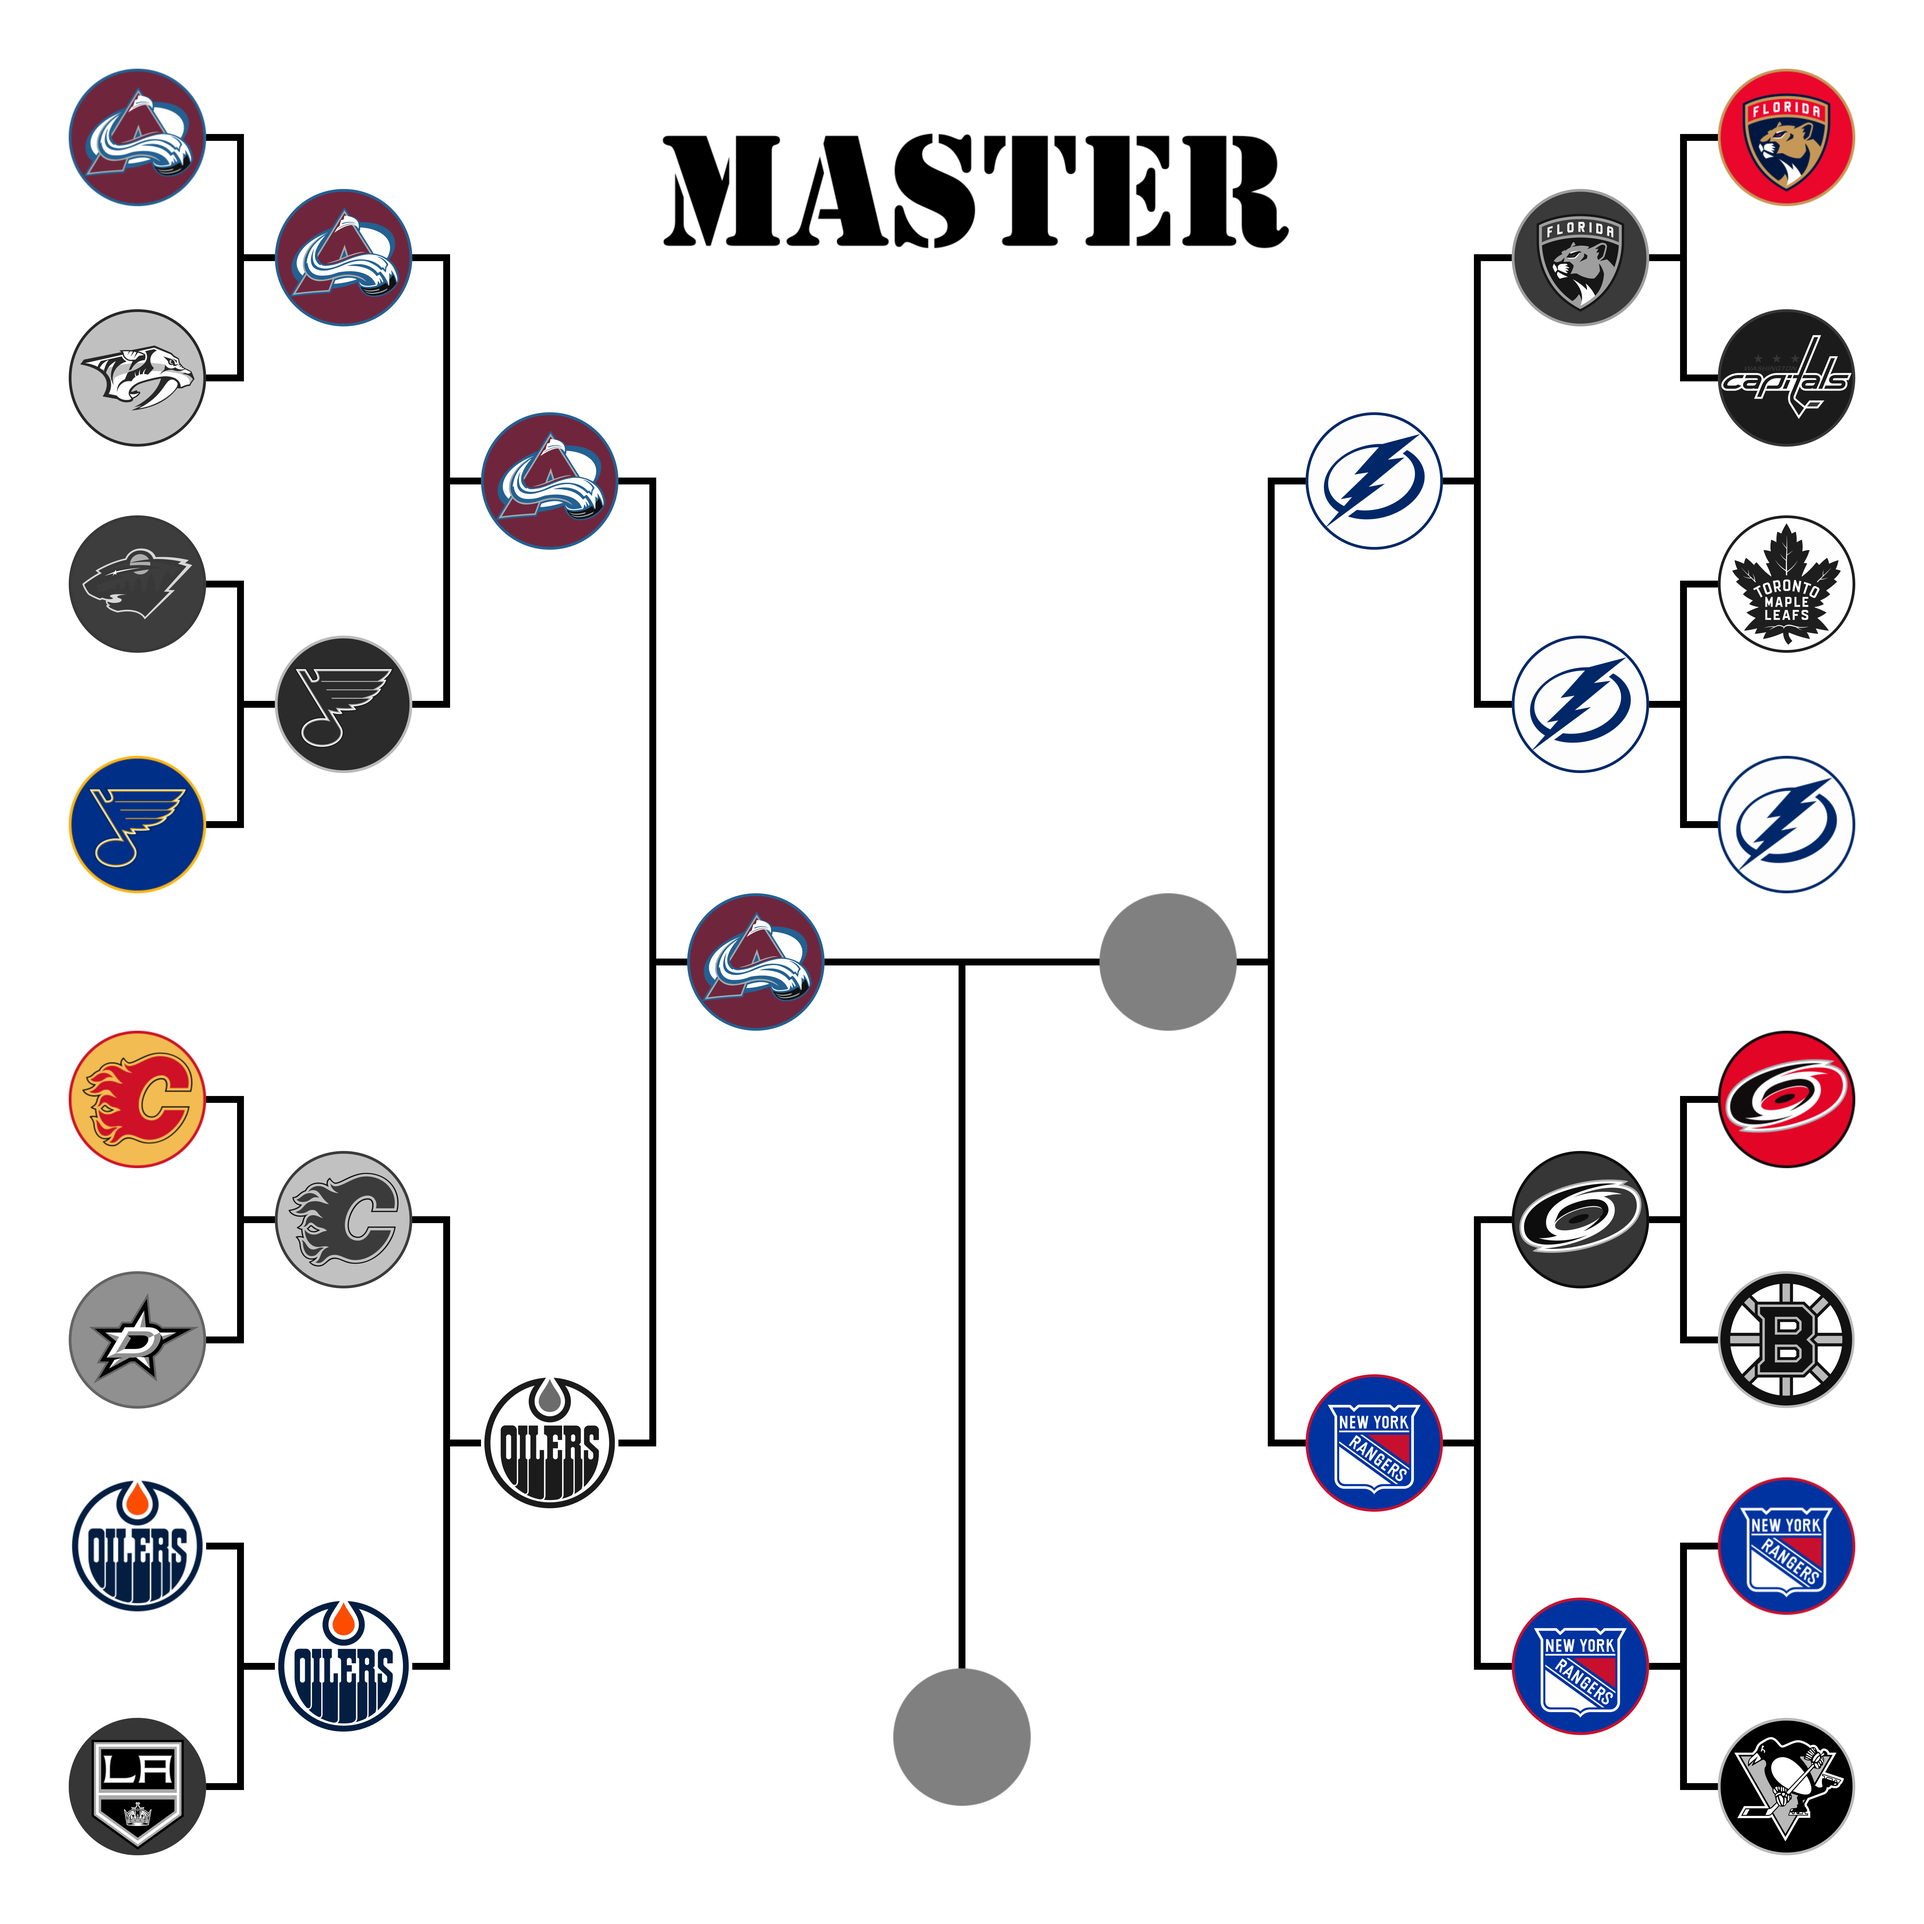
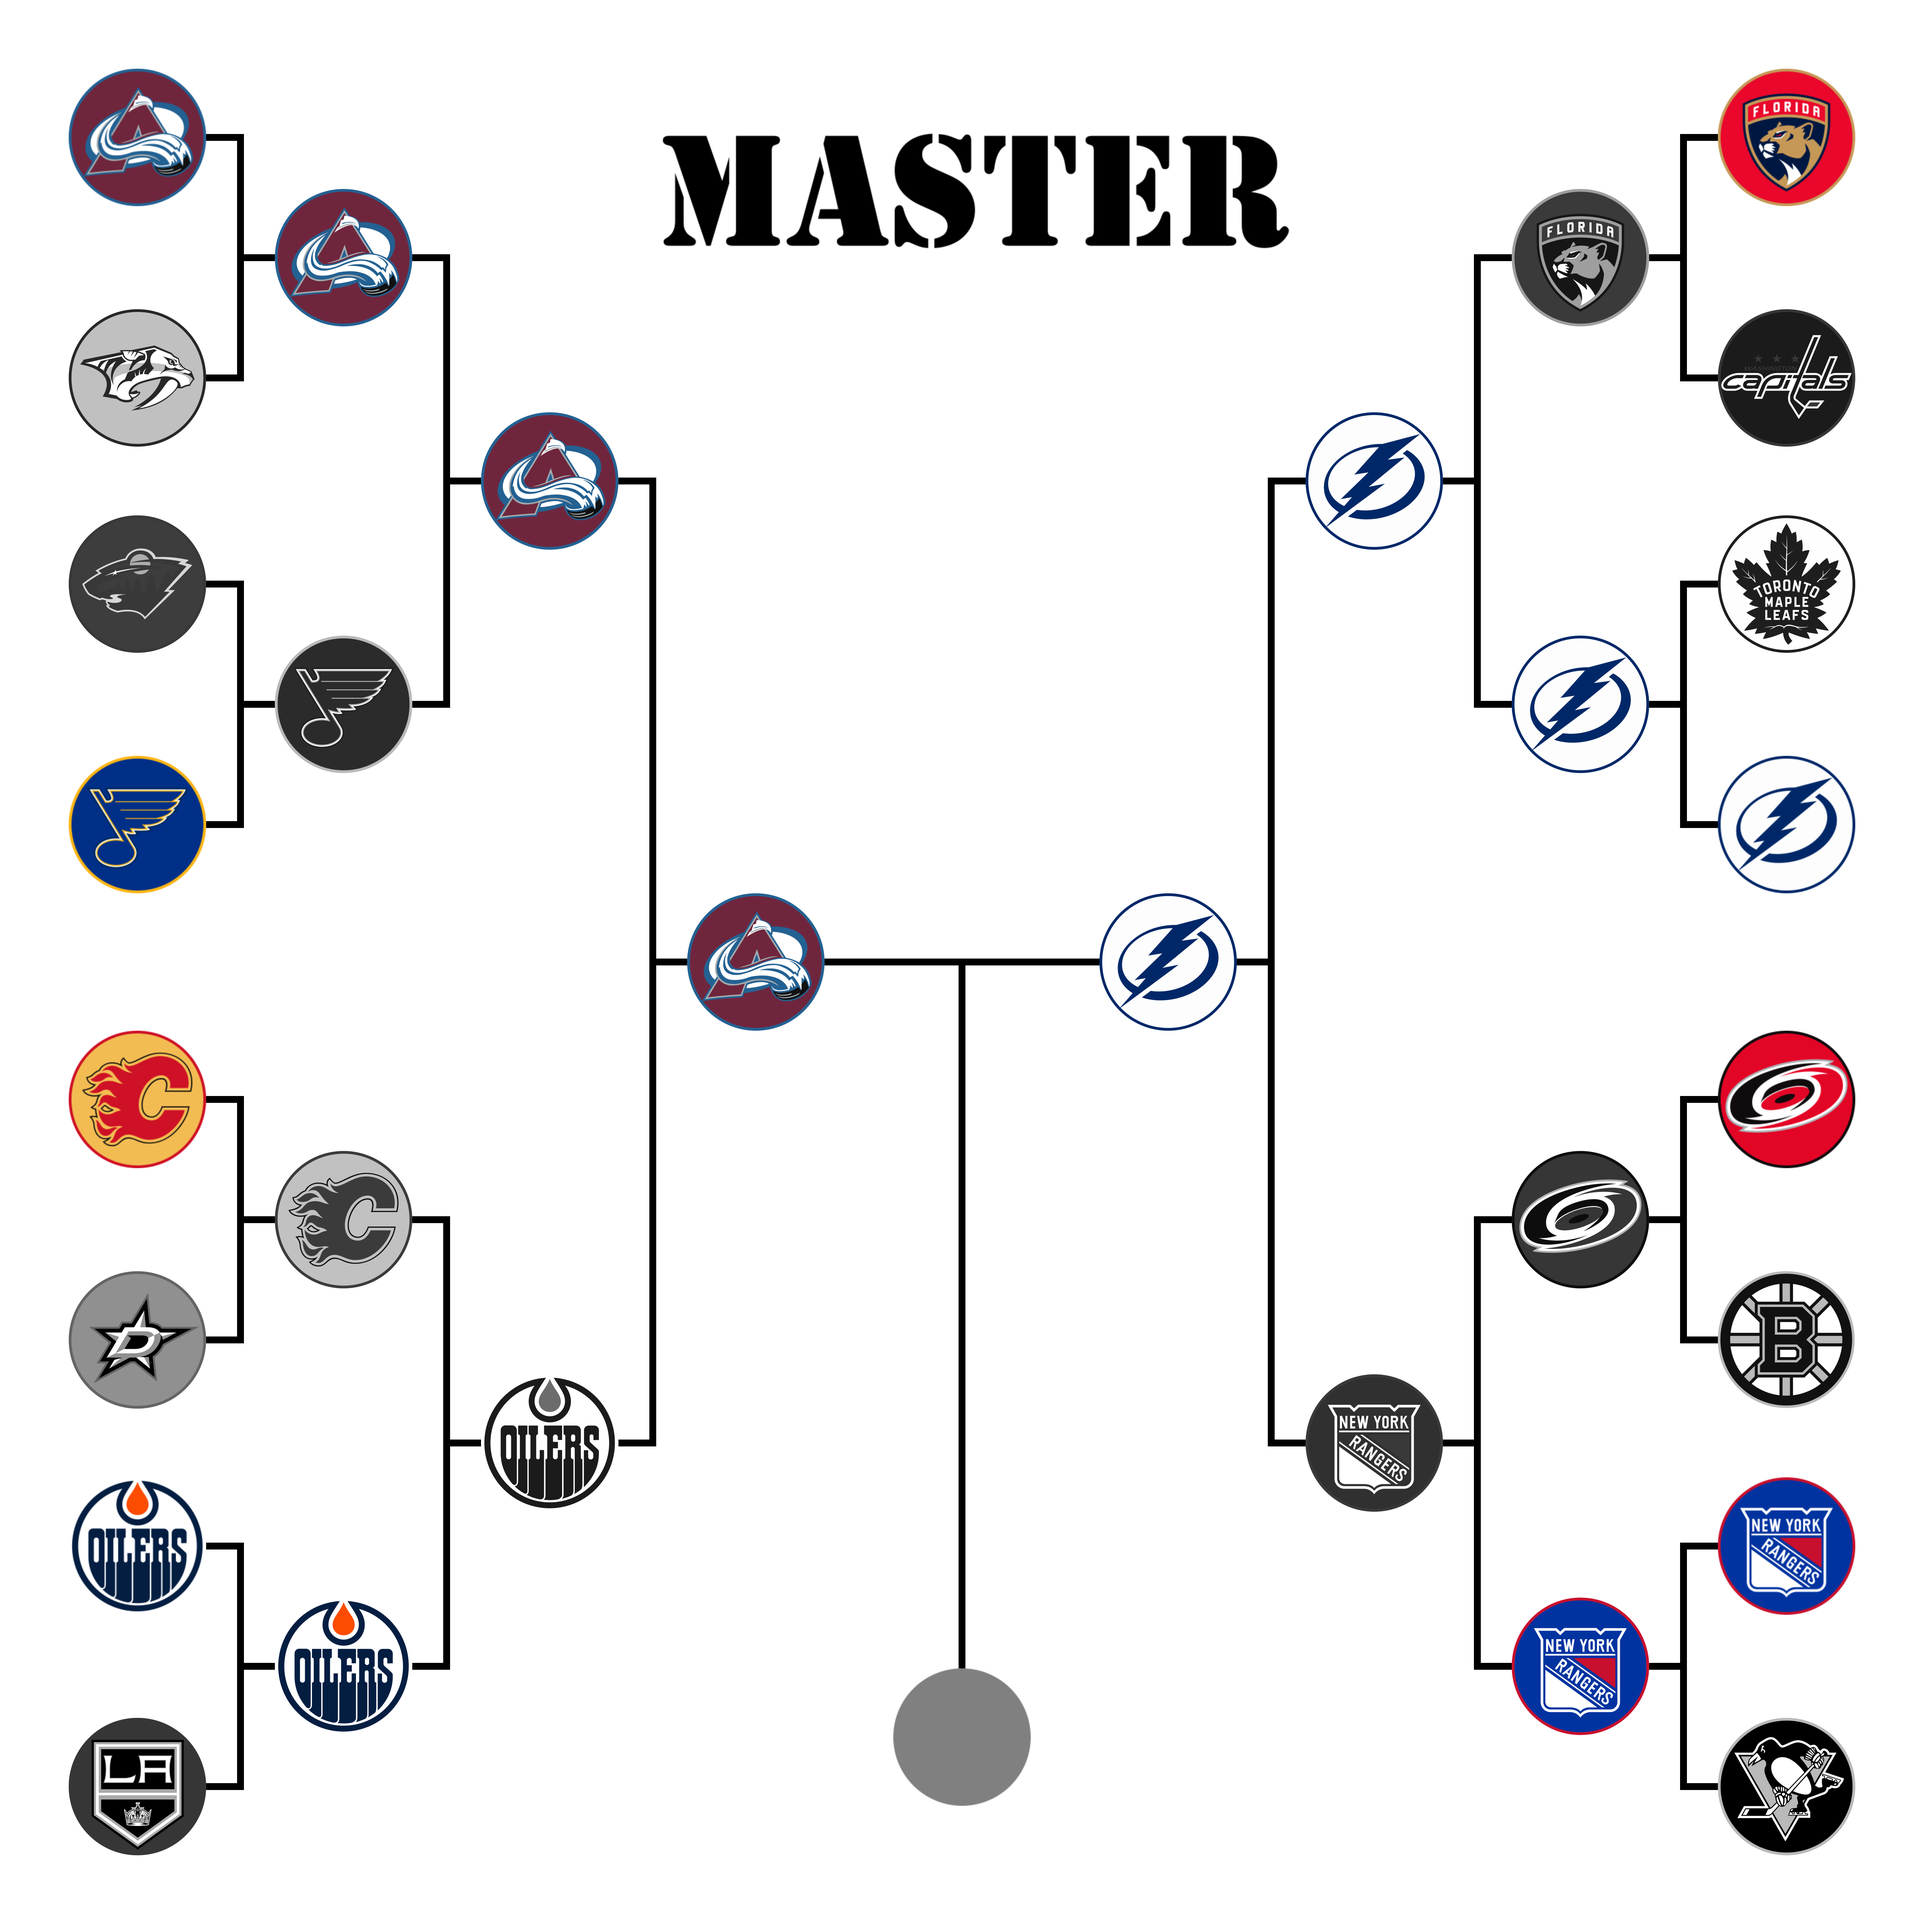
Updated Scores

Changed region(s): [[0.5625, 0.4375, 0.6562, 0.5625], [0.6562, 0.7188, 0.75, 0.7812]]

diff --git a/OverallFunction.m b/OverallFunction.m
@@ -5,7 +5,7 @@ clear all; close all; clc;
 FLAGS.Perform_Complete_Initialization = 0;
 FLAGS.Series_Teams_Initialization = 1;
 FLAGS.Update_Brackets_and_Points = 1;
-FLAGS.Update_Graphics = 0;
+FLAGS.Update_Graphics = 1;
 FLAGS.Update_Markdown = 1;
 FLAGS.Run_Git_Commands = 0; %%%Not implemented
 

diff --git a/UpdateFunctions/Scores.m b/UpdateFunctions/Scores.m
@@ -68,8 +68,8 @@ SCORES(:,:,13) = ...
 
 %% Series 14 /
 SCORES(:,:,14) = ...
-   [6 3 2 1 1 NaN NaN   % Rangers
-    2 2 3 4 3 NaN NaN]; % Lightning
+   [6 3 2 1 1 1 NaN   % Rangers
+    2 2 3 4 3 2 NaN]; % Lightning
 
 %% Series 15 /
 SCORES(:,:,15) = ...

diff --git a/index.md b/index.md
@@ -66,20 +66,20 @@ Thank you everyone who submitted a bracket. I enjoyed making this page and I hop
     <td>2</td>
     <td>1</td>
     <td>1</td>
-    <td> </td>
+    <td>1</td>
     <td> </td>
     <td>2</td>
   </tr>
   <tr>
-    <td>Lightning</td>
+    <td style="background-color: green">Lightning</td>
     <td>2</td>
     <td>2</td>
     <td style="background-color: green">3</td>
     <td style="background-color: green">4</td>
     <td style="background-color: green">3</td>
+    <td style="background-color: green">2</td>
     <td> </td>
-    <td> </td>
-    <td>3</td>
+    <td>4</td>
   </tr>
 </table>
 
@@ -99,7 +99,7 @@ Thank you everyone who submitted a bracket. I enjoyed making this page and I hop
     <th>Total Wins</th>
   </tr>
   <tr>
-    <td></td>
+    <td>Avalanche</td>
     <td> </td>
     <td> </td>
     <td> </td>
@@ -107,10 +107,10 @@ Thank you everyone who submitted a bracket. I enjoyed making this page and I hop
     <td> </td>
     <td> </td>
     <td> </td>
-    <td></td>
+    <td>0</td>
   </tr>
   <tr>
-    <td></td>
+    <td>Lightning</td>
     <td> </td>
     <td> </td>
     <td> </td>
@@ -118,7 +118,7 @@ Thank you everyone who submitted a bracket. I enjoyed making this page and I hop
     <td> </td>
     <td> </td>
     <td> </td>
-    <td></td>
+    <td>0</td>
   </tr>
 </table>
 
@@ -603,7 +603,7 @@ TPP: Total Points Possible
   </tr>
   <tr>
     <td>Corey</td>
-    <td>90</td>
+    <td>140</td>
     <td>240</td>
   </tr>
   <tr>
@@ -697,6 +697,11 @@ TPP: Total Points Possible
     <td>245</td>
   </tr>
   <tr>
+    <td>Corey</td>
+    <td>140</td>
+    <td>240</td>
+  </tr>
+  <tr>
     <td>Megan</td>
     <td>140</td>
     <td>240</td>
@@ -740,11 +745,6 @@ TPP: Total Points Possible
     <td>Allison</td>
     <td>95</td>
     <td>195</td>
-  </tr>
-  <tr>
-    <td>Corey</td>
-    <td>90</td>
-    <td>240</td>
   </tr>
   <tr>
     <td>Jordan</td>
@@ -793,13 +793,13 @@ TPP: Total Points Possible
     <td>245</td>
   </tr>
   <tr>
-    <td>Megan</td>
+    <td>Corey</td>
     <td>140</td>
     <td>240</td>
   </tr>
   <tr>
-    <td>Corey</td>
-    <td>90</td>
+    <td>Megan</td>
+    <td>140</td>
     <td>240</td>
   </tr>
   <tr>
